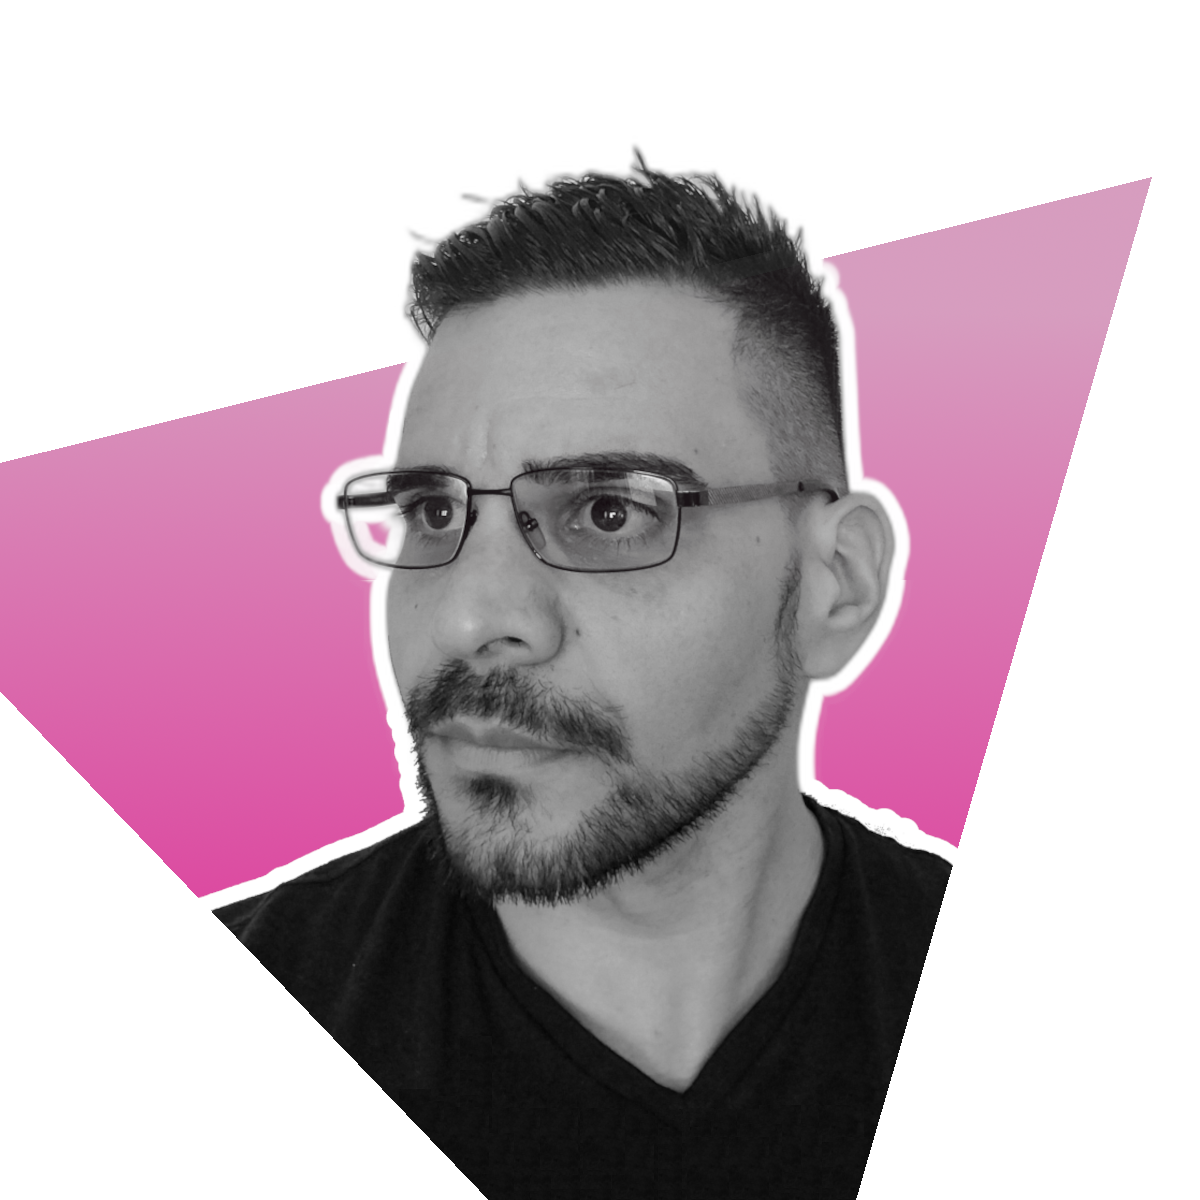
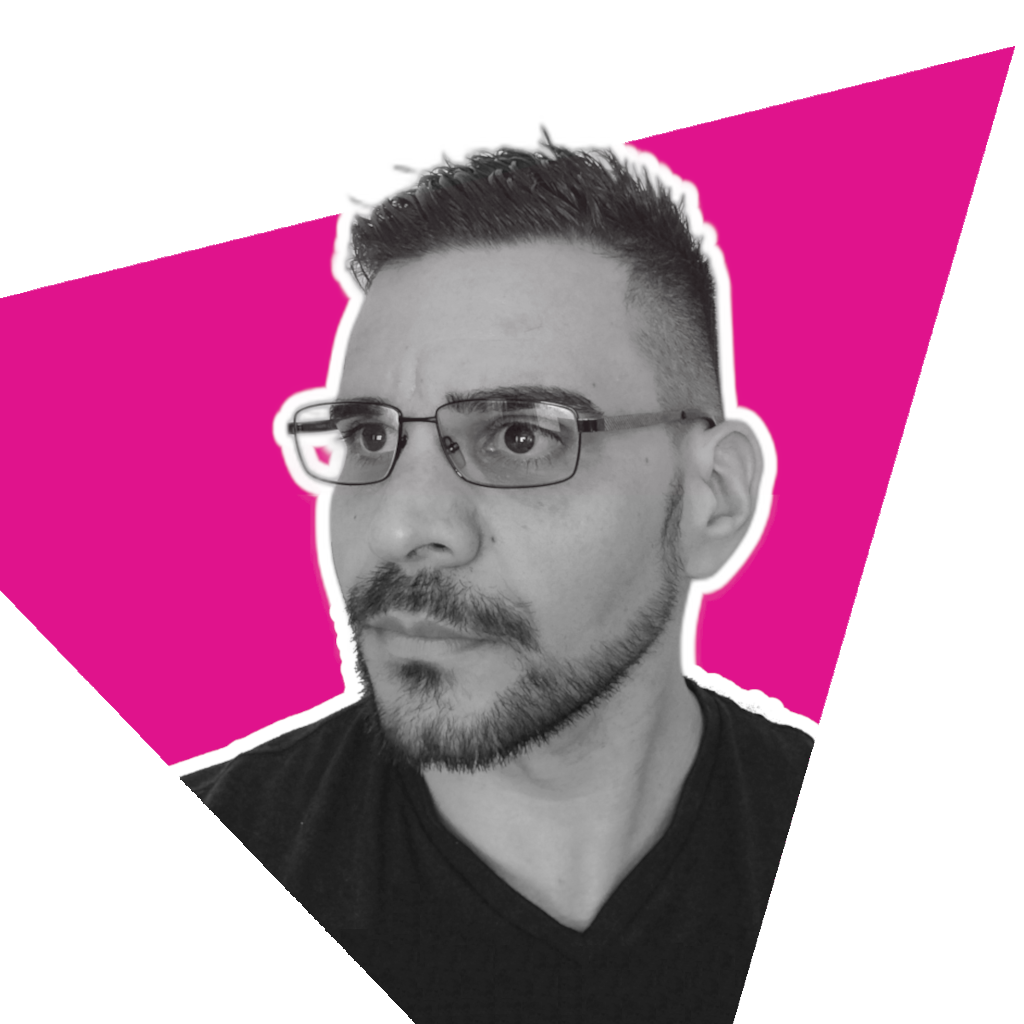
:bento: atualização das imagens para o novo formato

Changed region(s): [[0.0, 0.1875, 0.3438, 0.75], [0.5938, 0.0312, 1.0, 0.7188]]

diff --git a/static/web/profiles.html b/static/web/profiles.html
@@ -143,7 +143,7 @@
 
   <body>
     <header>
-      <img src="/figures/johnywalves.png" alt="" />
+      <img src="/figures/johnywalves.jpg" alt="" />
     </header>
 
     <h1>Johny W. Alves</h1>
